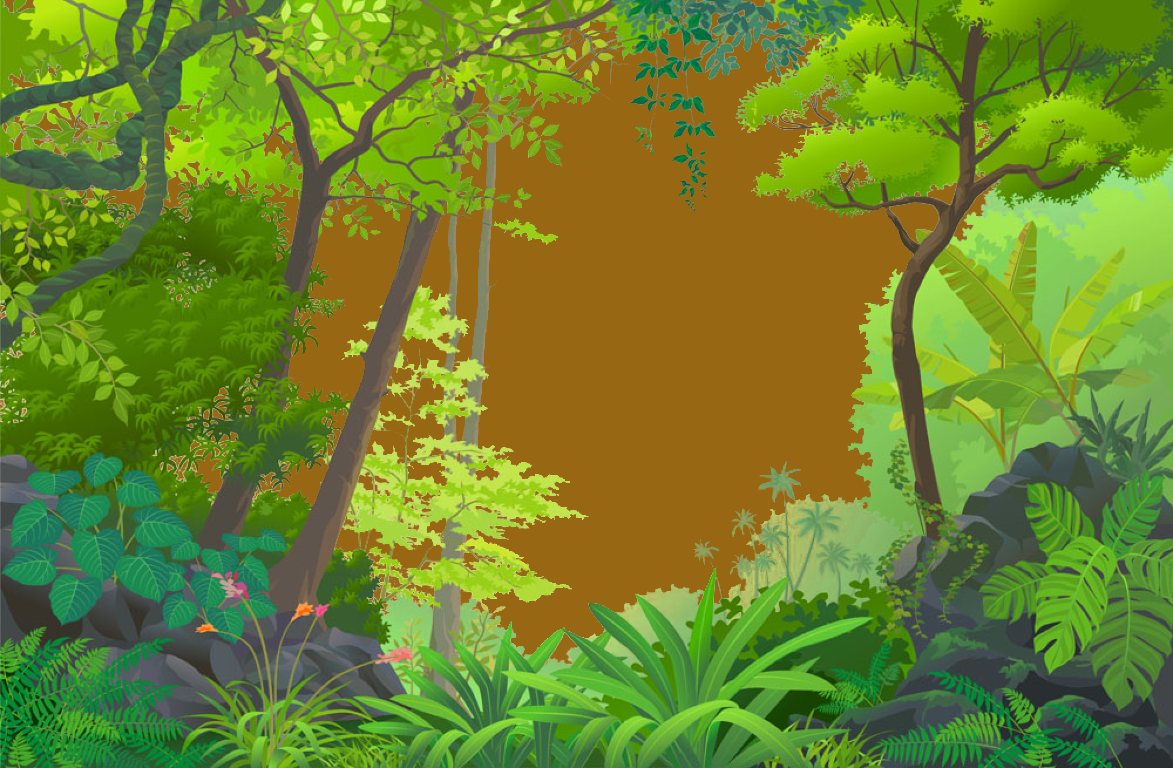
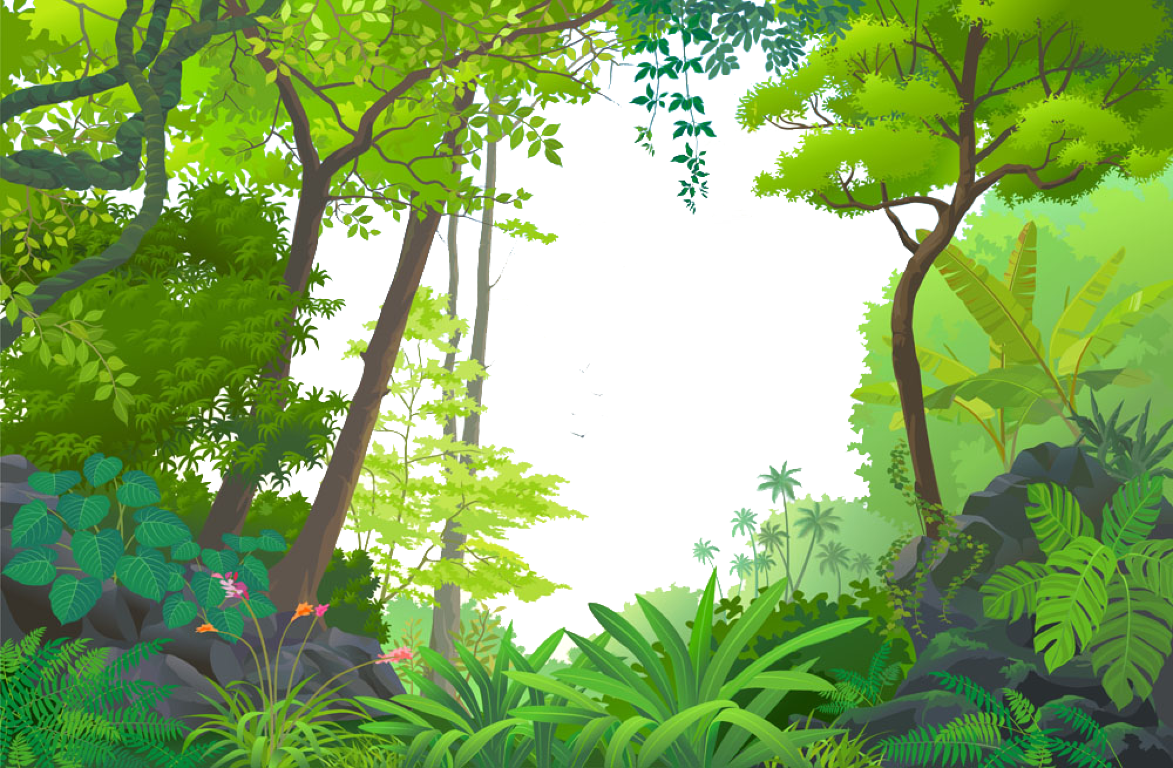
cisla

diff --git a/opicky/opicky_game.py b/opicky/opicky_game.py
@@ -1,6 +1,7 @@
 from opicky.main_obj import Level, Point, Win, Lose
 from pygame.locals import *
 import sys
+import random
 
 #import from sibling folder
 sys.path.insert(0, "..")
@@ -83,18 +84,36 @@ def opicky_level(pg, screen, level_status, level_max):
         ['I', 'H', 'D', 'E', 'J'],
         ['J', 'E', 'I']
     )
-    susedia = (
-        ['A', 'B', 'F'],
-        ['B', 'A', 'G', 'C'],
-        ['C', 'B', 'F', 'H'],
-        ['D', 'H', 'I'],
-        ['E', 'I', 'J'],
-        ['F', 'A', 'C'],
-        ['G', 'B', 'H'],
-        ['H', 'G', 'C', 'D', 'I'],
-        ['I', 'H', 'D', 'E', 'J'],
-        ['J', 'E', 'I']
+    connections = (
+        'A B', 'A F',
+        'B G', 'B C',
+        'C F', 'C H',
+        'D H', 'D I',
+        'E I', 'E J',
+        'G H',
+        'H I',
+        'I J'
     )
+    susedia = []
+    for connection in connections:
+        start, to = connection.split(' ')
+
+        pridajA = True
+        pridajB = True
+
+        for item in susedia:
+            if item[0] == start:
+                pridajA = False
+                item.append(to)
+            if item[0] == to:
+                pridajB = False
+                item.append(start)
+
+        if pridajA:
+            susedia.append([start, to])
+        if pridajB:
+            susedia.append([to, start])
+
     #main points
     for y in range(2):
         for x in range(4):
@@ -104,6 +123,8 @@ def opicky_level(pg, screen, level_status, level_max):
         vrcholy[name] = Point(pomocne_coord[index])
         vrcholy[name].image = [images['point'], images['point2']]
         vrcholy[name].make_rect()
+        cislo = random.randint(2, 12)
+        vrcholy[name].value = cislo
 
     #start point
     left_s = ((left+level.point_rest/2) - level.point_size) / 2
@@ -139,6 +160,19 @@ def opicky_level(pg, screen, level_status, level_max):
     lana_images['type5'] = pg.transform.rotozoom(lana_images['type5'], -40, 1)
     lana_images['type5_flip'] = pg.transform.flip(lana_images['type5'], False, True)
     lana_images['type6'] = pg.transform.rotozoom(lana_images['type5'], 80, 1)
+
+    #cisla
+    cisla_obj = []
+    for name, obj in vrcholy.items():
+        if name == 'A' or name == 'J':
+            continue 
+        value, coors = obj.generate_number()
+        intro_textObj = pg.font.SysFont('impact', 50)
+        intro_textSurfaceObj = intro_textObj.render(str(value), True, const['color'].RED)
+        intro_textRectObj = intro_textSurfaceObj.get_rect()
+        intro_textRectObj.center = coors
+
+        cisla_obj.append([intro_textSurfaceObj, intro_textRectObj])
 
     #-------MAIN LOOP
     while True:
@@ -227,6 +261,10 @@ def opicky_level(pg, screen, level_status, level_max):
         #vrcholy:
         for vrchol in vrcholy.items():
             screen.blit(*vrchol[1].coords)
+
+        #cisla:
+        for a, b in cisla_obj:
+            screen.blit(a, b)
 
         #opicka:
         screen.blit(images['monkey'], level.monkey_coords())

diff --git a/opicky/main_obj.py b/opicky/main_obj.py
@@ -25,7 +25,7 @@ class Level:
         anim = files.animation_images.Get_images(self.pg)
         path = 'opicky/resources/'
         images = {
-            "jungle": self.pg.image.load(path + 'jungle.png'),
+            "jungle": self.pg.image.load(path + 'jungle_blue.png'),
             "back": anim.back,
             "q_mark": anim.q_mark,
             "banana_full": self.pg.image.load(path + 'banana2.png'),
@@ -66,7 +66,8 @@ class Level:
             x1 = vrchol[1].coords[1][0]
             y1 = vrchol[1].coords[1][1]
 
-            #print(vrchol[0])
+            print(vrchol[0], vrchol[1].neig)
+            
             susedia = vrchol[1].neig
             for sused in susedia:
                 if sused == 'A' or sused == 'J':
@@ -107,9 +108,9 @@ class Level:
 
     def generate_text(self, width, color):
         intro_textObj = self.pg.font.SysFont('impact', 46)
-        intro_textSurfaceObj = intro_textObj.render('Nejaký text čo pomôže dieťaťu pochopiť hru.', True, color)
+        intro_textSurfaceObj = intro_textObj.render('Nájdi cestu s najmenším súčtom čísel.', True, color)
         intro_textRectObj = intro_textSurfaceObj.get_rect()
-        intro_textRectObj.center = (width//2, 150)
+        intro_textRectObj.center = (width//2, 160)
 
         return intro_textSurfaceObj, intro_textRectObj
 
@@ -125,6 +126,7 @@ class Point:
         self.neig = None
         self.type = 1
         self.connected_with = set()
+        self.value = -1
 
     @property
     def coords(self):
@@ -139,6 +141,9 @@ class Point:
             return True
         else:
             return False
+
+    def generate_number(self):
+        return self.value, self.rect.center
 
 class Win:
     def __init__(self, pg, screen):

diff --git a/opicky/test.py b/opicky/test.py
@@ -1,0 +1,31 @@
+connections = (
+        'A B', 'A F',
+        'B G', 'B C',
+        'C F', 'C H',
+        'D H', 'D I',
+        'E I', 'E J',
+        'G H',
+        'H I',
+        'I J'
+)
+susedia = []
+for connection in connections:
+    start, to = connection.split(' ')
+
+    pridajA = True
+    pridajB = True
+
+    for item in susedia:
+        if item[0] == start:
+            pridajA = False
+            item.append(to)
+        if item[0] == to:
+            pridajB = False
+            item.append(start)
+
+    if pridajA:
+        susedia.append([start, to])
+    if pridajB:
+        susedia.append([to, start])
+
+print(susedia)
